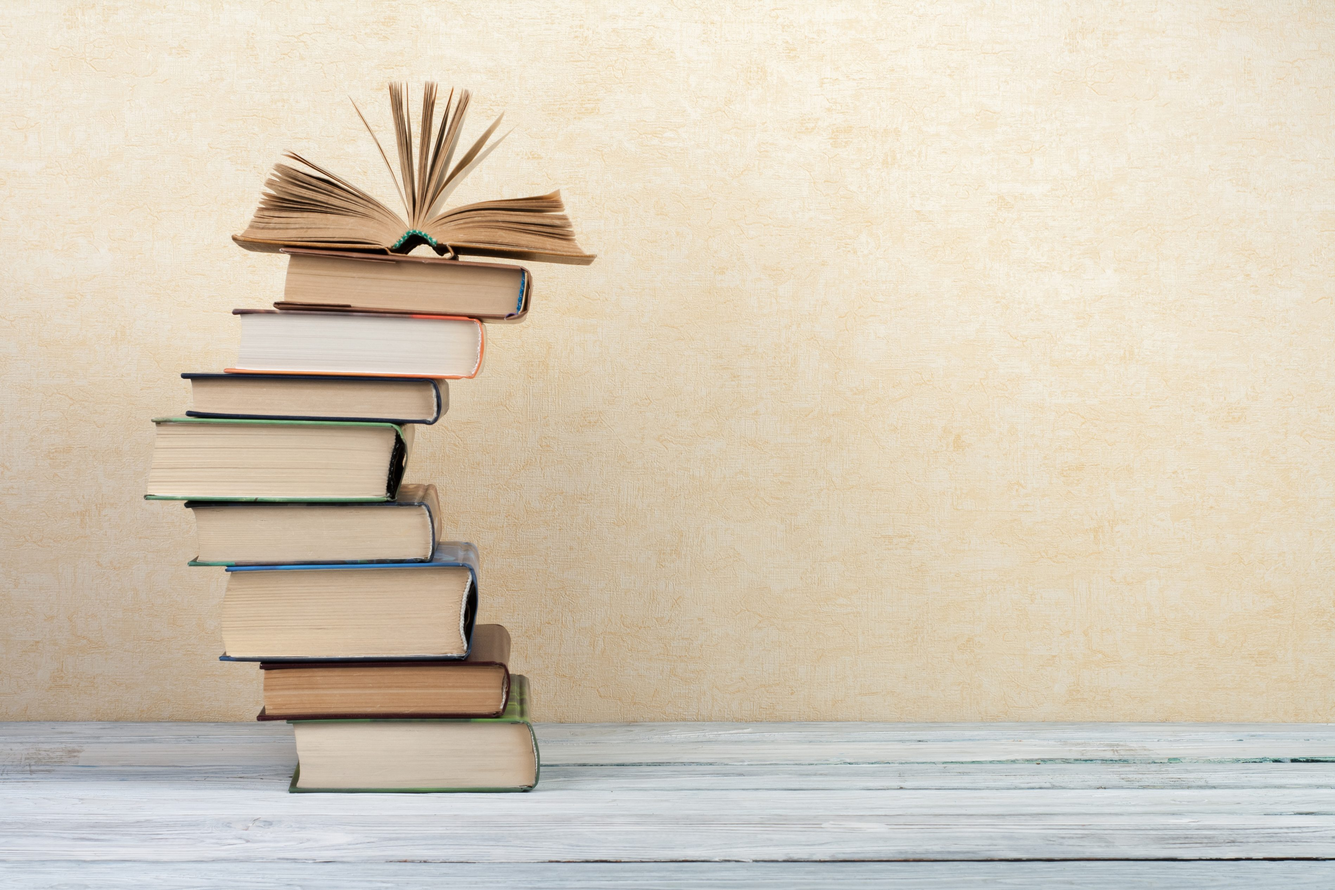
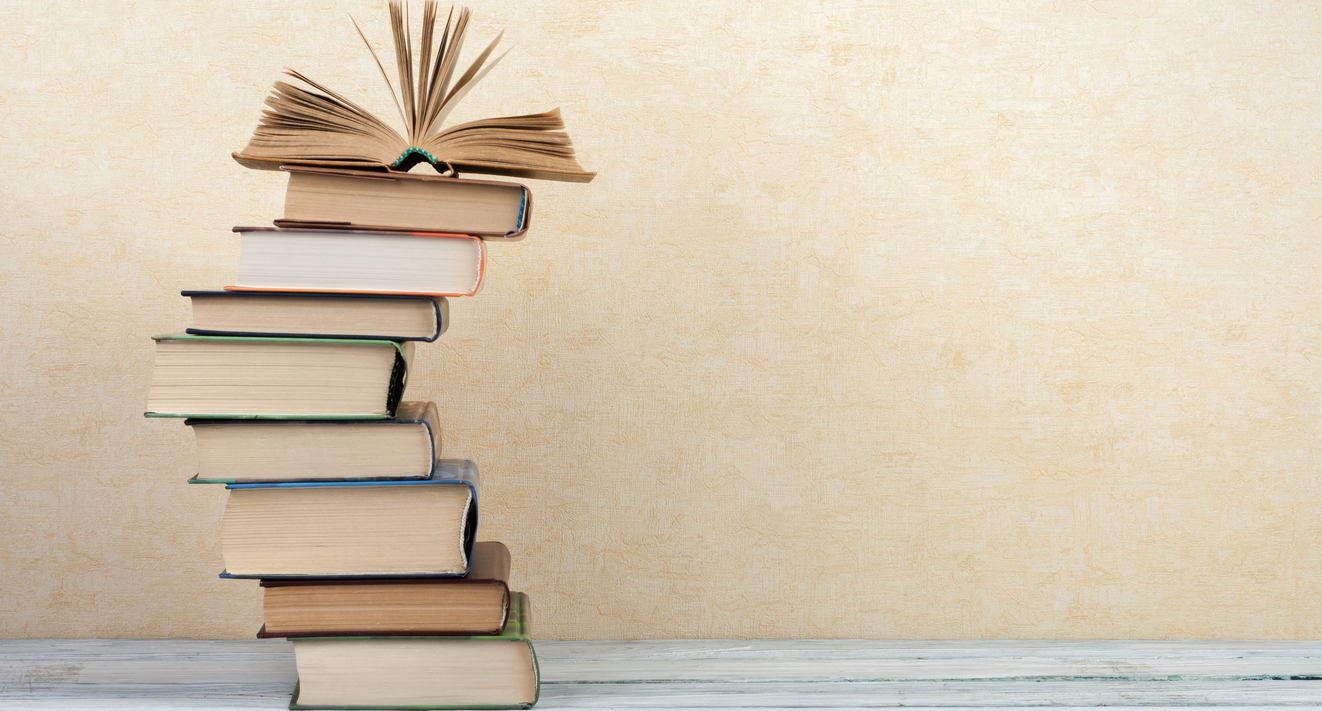
final

diff --git a/css/style.css b/css/style.css
@@ -1,18 +1,75 @@
-@import url('https://fonts.googleapis.com/css2?family=Roboto&display=swap');
+@import url('https://fonts.googleapis.com/css2?family=Roboto:wght@550&display=swap');
+
 *{
     box-sizing: border-box;
 }
 body{
+    background-image: url(/imges/BookCourt.jpg);
+    background-repeat: no-repeat;
+    background-size:cover;
     font-family: 'Roboto', sans-serif;
     margin: 0;
     width: 100%;
+    color: #eee;
+
 }
+
 header{
     background-color: rgba(64, 34, 24,0.7);
-color: #eee;
+    color: #eee;
     text-align: center;
     padding: 20px;
+    opacity: 0.9;
 }
 header h1{
-    font-size: 30px;
+    font-size: 25px;
+    font-weight:600;
 }
+main{
+    display: flex;
+    position: relative;
+    height:630px;
+}
+#formDiv{
+    position: absolute;
+    top: 50px;
+    left: 20px;
+    background-color:rgba(64, 34, 24,0.7); 
+opacity: 0.9;
+padding: 20PX;
+font-size: 15px;
+}
+select{
+    width: 180px;
+}
+
+#tableDiv{
+    position: absolute;
+    right: 10%;  
+    top: 50px;
+    background-color:rgba(64, 34, 24,0.7); 
+    opacity: 0.9;
+    padding: 20px;
+
+}
+
+footer{
+padding: 10px;
+text-align: center;
+background-color:rgba(64, 34, 24,0.7); 
+opacity: 0.9;
+
+}
+
+th, td{
+    text-align: center;
+    border: white 1px solid;
+    padding: 5px;
+    padding-left: 50px;
+padding-right: 50px;
+}
+tr{
+    padding: 3px;
+    border: white 2px solid;
+}
+

diff --git a/index.html b/index.html
@@ -13,7 +13,7 @@
         <h1>Books Shop</h1>
     </header>
     <main>
-        <section>
+       
             <div id="formDiv" >
                 <form id="bookForm">
                     <fieldset>
@@ -29,7 +29,7 @@
                     </fieldset>
                 </form>
             </div>
-            <div>
+            <div id="tableDiv">
                 <table>
                     <thead>
                         <tr>
@@ -41,15 +41,16 @@
                     <tbody id="tbody">
 
                     </tbody>
+                    <span id="total"></span>
                 </table>
                 <span id="total"></span>
 
             </div>
-        </section>
+            
 
     </main>
     <footer>
-
+     <p>&copy ASAC 2021  </p>
     </footer>
     <script src="./js/app.js"></script>
 </body>
